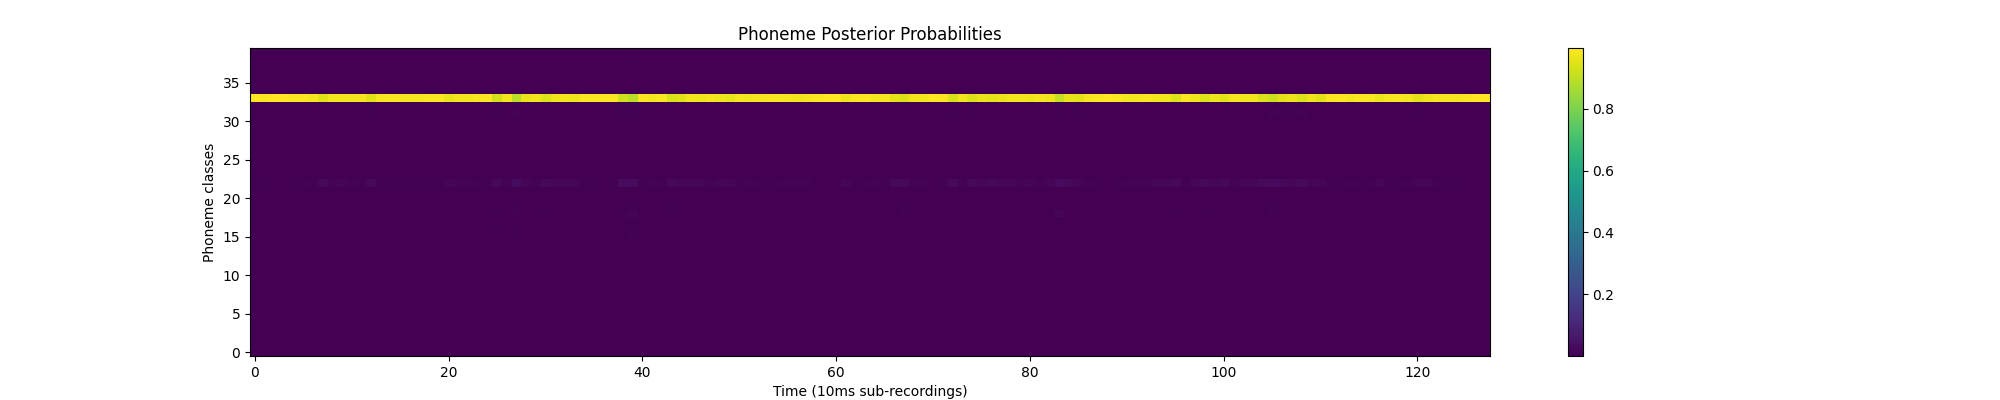
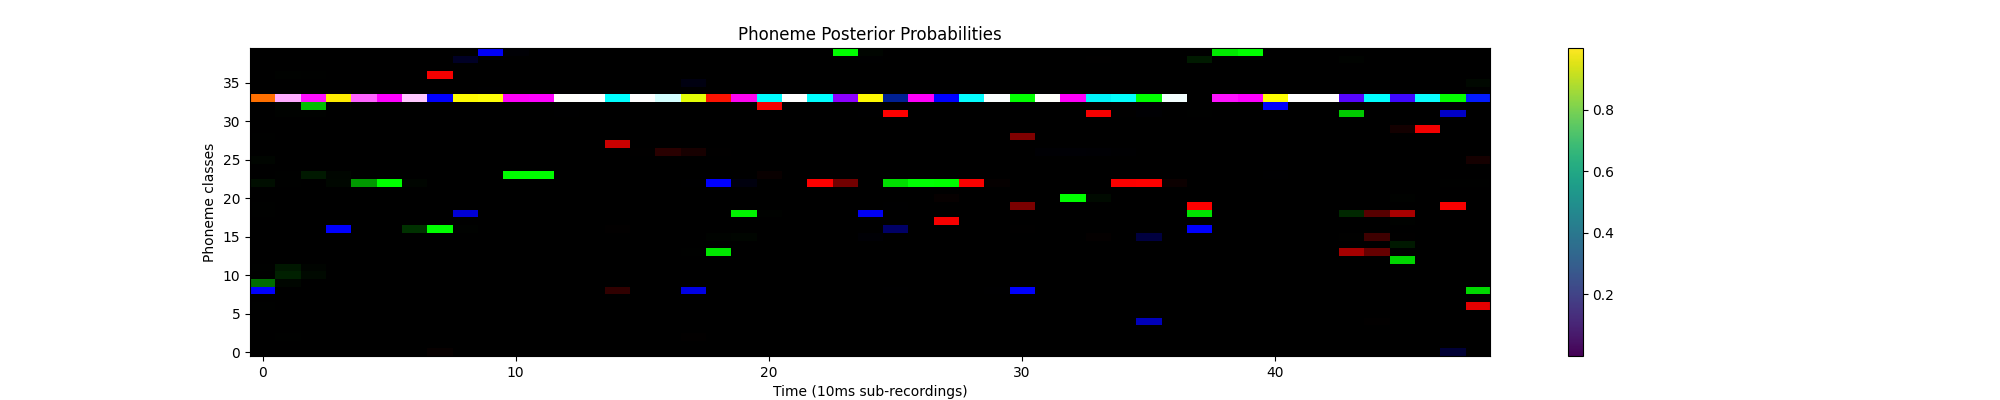
to much padding

diff --git a/evaluate.py b/evaluate.py
@@ -19,9 +19,9 @@ model = AutoModelForCTC.from_pretrained("mrrubino/wav2vec2-large-xlsr-53-l2-arct
 audio_input, sample_rate = librosa.load('data/HJK/HJK/wav/arctic_a0001.wav', sr=16000)
 print('Length of audio input : ', len(audio_input))
 
-# Cut into 10ms sub-recordings
+# Cut into 50ms sub-recordings
 
-n_frames = int(sample_rate * 0.025)
+n_frames = int(sample_rate * 0.01)  # 10ms
 print(f'Number frames for 10ms sub-recordings : {n_frames}')
 
 audio_input_sub = [audio_input[start:(start+n_frames)] for start in range(0, len(audio_input), n_frames)]
@@ -43,26 +43,32 @@ print(f'Shape of input values : {(len(input_values_sub),input_values_sub[0].shap
 
 # Inference
 
-probs_sub = []
-
 # Concatenate the tensors along the first dimension
 result_tensor = torch.cat(input_values_sub, dim=0)
 print(f'Shape of result tensor before padding : {result_tensor.shape}')
-result_tensor = torch.nn.functional.pad(result_tensor, (0, minimum_length - result_tensor.size(1)))
+padded_tensor = torch.nn.functional.pad(result_tensor, (0, minimum_length - result_tensor.size(1)))
+#padded_tensor = result_tensor
+print(f'Shape of padded tensor : {padded_tensor.shape}')
 
-print(f'Shape of result tensor : {result_tensor.shape}')
+logits = model(padded_tensor).logits
+print(f'Shape of logits : {logits.shape}')
+predicted_ids = torch.argmax(logits, dim=-1)
+print(f'Shape of predicted ids : {predicted_ids.shape}')
+predicted_sequence = predicted_ids.flatten()
+print(f'Shape of predicted sequence : {predicted_sequence.shape}')
+print(f'Predicted sequence : {predicted_sequence}')
+# transcribe
+transcription = processor.decode(predicted_sequence)
+print(type(transcription))
+print(f'Transcription : {transcription}')
 
-logits = model(result_tensor).logits
-probs = F.softmax(logits, dim=-1).squeeze(1)
-print(f'Shape of probs : {probs.shape}')
-print(f'Guessed phoneme : {torch.argmax(probs, dim=-1)}')
-# Print different classes
+probs = F.softmax(logits, dim=-1)
+
 print(f'Number of classes : {probs.shape[1]}')
-classes = processor.decode(torch.tensor(range(probs.shape[1])))
-for i in range(probs.shape[1]):
-    print(f'Classes : {i} : {classes[i]}')
+classes = processor.tokenizer.get_vocab()
+print(f'Classes : {classes}')
 
-# Plot and save the phoneme posterior probabilities
+# Show phoneme posterior probabilities
 
 import matplotlib.pyplot as plt
 import os
@@ -75,27 +81,3 @@ plt.xlabel('Time (10ms sub-recordings)')
 plt.ylabel('Phoneme classes')
 plt.savefig('ppg.png')
 
-#     tensor = input_values_sub[k]
-#     if tensor.shape[1] < minimum_length:
-#         # Pad the tensor to the minimum length
-#         tensor = torch.nn.functional.pad(tensor, (0, minimum_length - tensor.size(1)))
-
-#     logits = model(tensor).logits
-#     probs = F.softmax(logits, dim=-1)
-#     probs_sub.append(probs.squeeze(0).squeeze(0))
-#     print(f'Computation n° {k+1}/{len(input_values_sub)} done')
-    
-# print(f'Shape of probs : {(len(probs_sub),probs_sub[0].shape)}')
-
-# # Save image of the ppg
-
-# import matplotlib.pyplot as plt
-# import os
-
-# plt.figure(figsize=(20, 4))
-# plt.imshow(probs_sub[0].detach().numpy(), aspect='auto', origin='lower')
-# plt.colorbar()
-# plt.title('Phoneme Posterior Probabilities')
-# plt.xlabel('Time (10ms sub-recordings)')
-# plt.ylabel('Phoneme classes')
-# plt.savefig('ppg.png')
